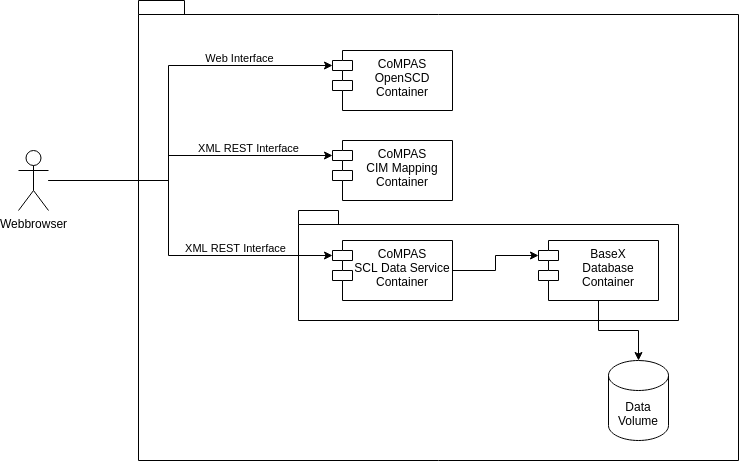
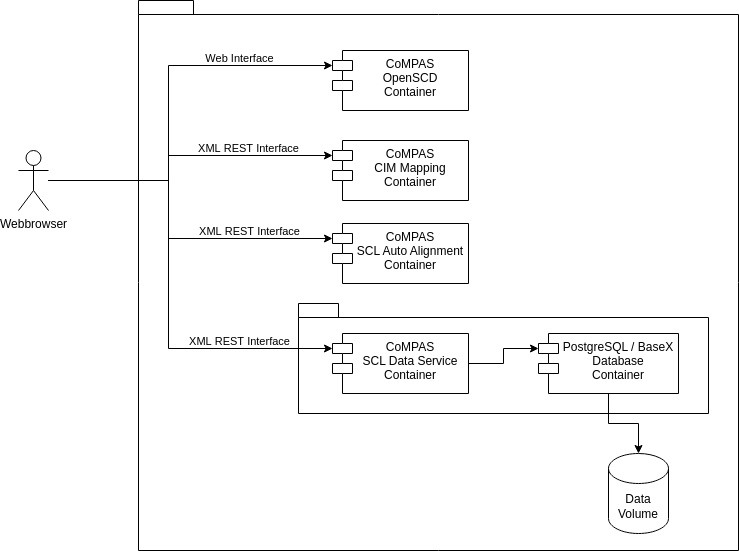
Added SCL Auto Alignment to diagram.

diff --git a/technical/TECHNICAL_ARCHITECTURE.md b/technical/TECHNICAL_ARCHITECTURE.md
@@ -42,12 +42,13 @@ This view will be updated during time to add the new components that are build.
 The user uses a browser to open the OpenSCD editor from the CoMPAS OpenSCD Container. In this editor there are plugins
 available to use the XML REST Services from CoMPAS to open and save SCL files or use a mapper to converted files.
 
-The SCL files are stored in a database, for instance BaseX, that uses a volume to store the data outside the container.
+The SCL files are stored in a database, for instance BaseX or PostgreSQL, that uses a volume to store the data outside the container.
 
 Detailed information about the different components can be found at the follow links.
 
-| Component |  |  |
-| --- | --- | --- | 
-| CoMPAS SCL Data Service | [Repository](https://github.com/com-pas/compas-scl-data-service)  | [Documentation](https://github.com/com-pas/compas-scl-data-service/blob/doc/compas-scl-data-service.md) |
-| CoMPAS OpenSCD | [Repository](https://github.com/com-pas/compas-open-scd)  |  |
-| CoMPAS CIM Mapping | [Repository](https://github.com/com-pas/compas-cim-mapping)  |  |
+| Component                 |                                                                    |                                                                                                               |
+|---------------------------|--------------------------------------------------------------------|---------------------------------------------------------------------------------------------------------------|
+| CoMPAS SCL Data Service   | [Repository](https://github.com/com-pas/compas-scl-data-service)   | [Documentation](https://github.com/com-pas/compas-scl-data-service/blob/main/doc/compas-scl-data-service.md)  |
+| CoMPAS OpenSCD            | [Repository](https://github.com/com-pas/compas-open-scd)           |                                                                                                               |
+| CoMPAS CIM Mapping        | [Repository](https://github.com/com-pas/compas-cim-mapping)        |                                                                                                               |
+| CoMPAS SCL Auto Alignment | [Repository](https://github.com/com-pas/compas-scl-auto-alignment) |                                                                                                               |
